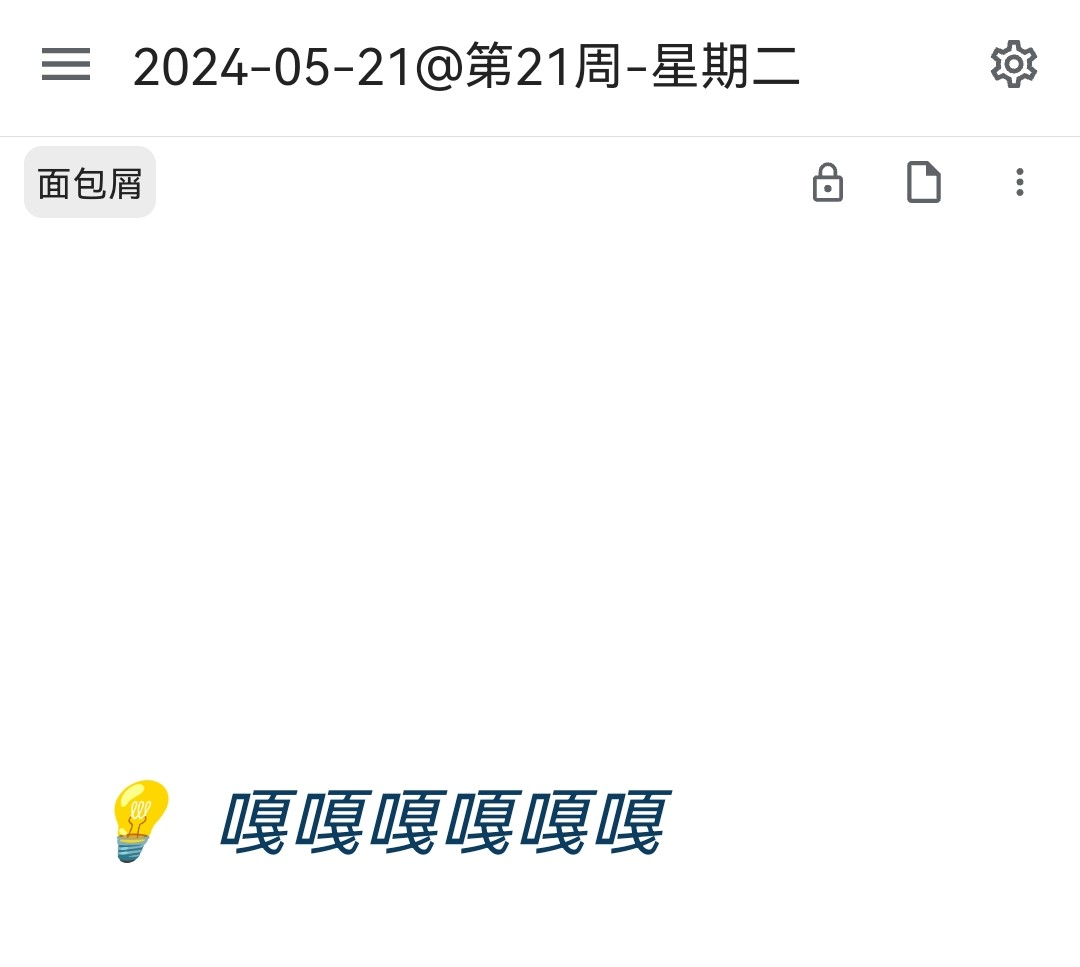
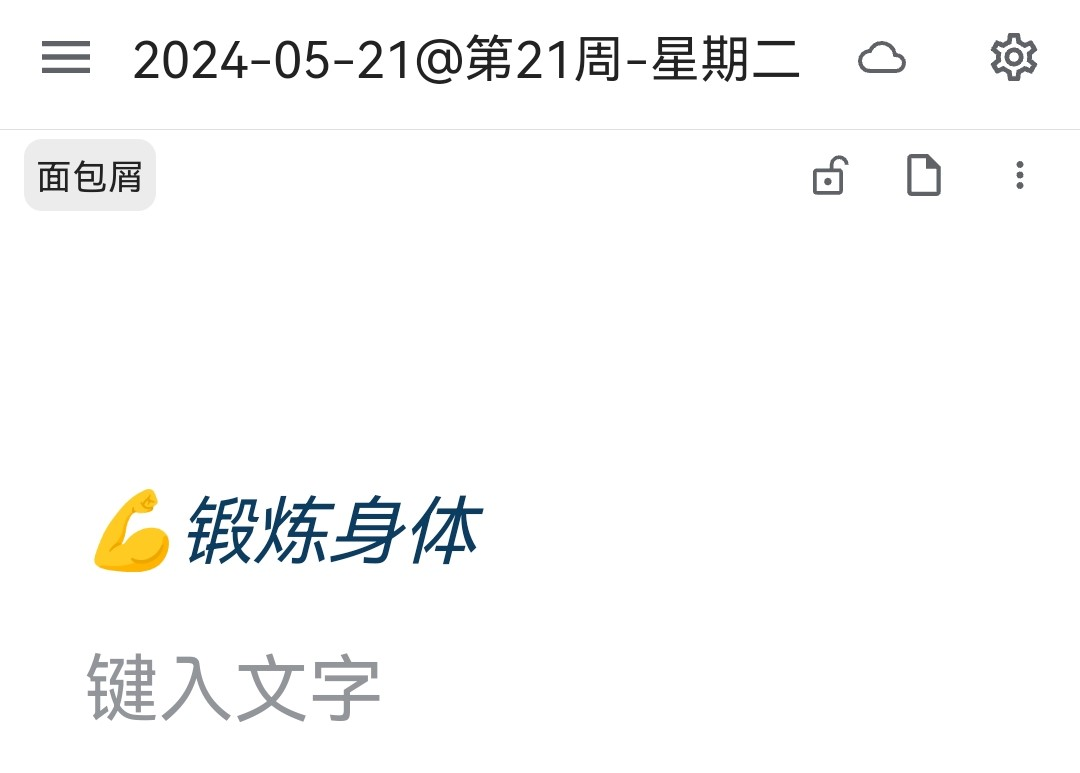
auto

diff --git a/README_zh_CN.md b/README_zh_CN.md
@@ -41,6 +41,18 @@
 
 <img src="assets/idea2.jpg" alt="drawing" width="300"/>
 
+记录的信息，可能的类别：
+
+```
+闪念: 💡
+场所: 🏞
+健康: 💪
+社交: 💬
+生活: 🍴
+学习: 📚
+工作: 💼
+```
+
 ## 杂项
 
 ### 文心一言4.0 `F10`
